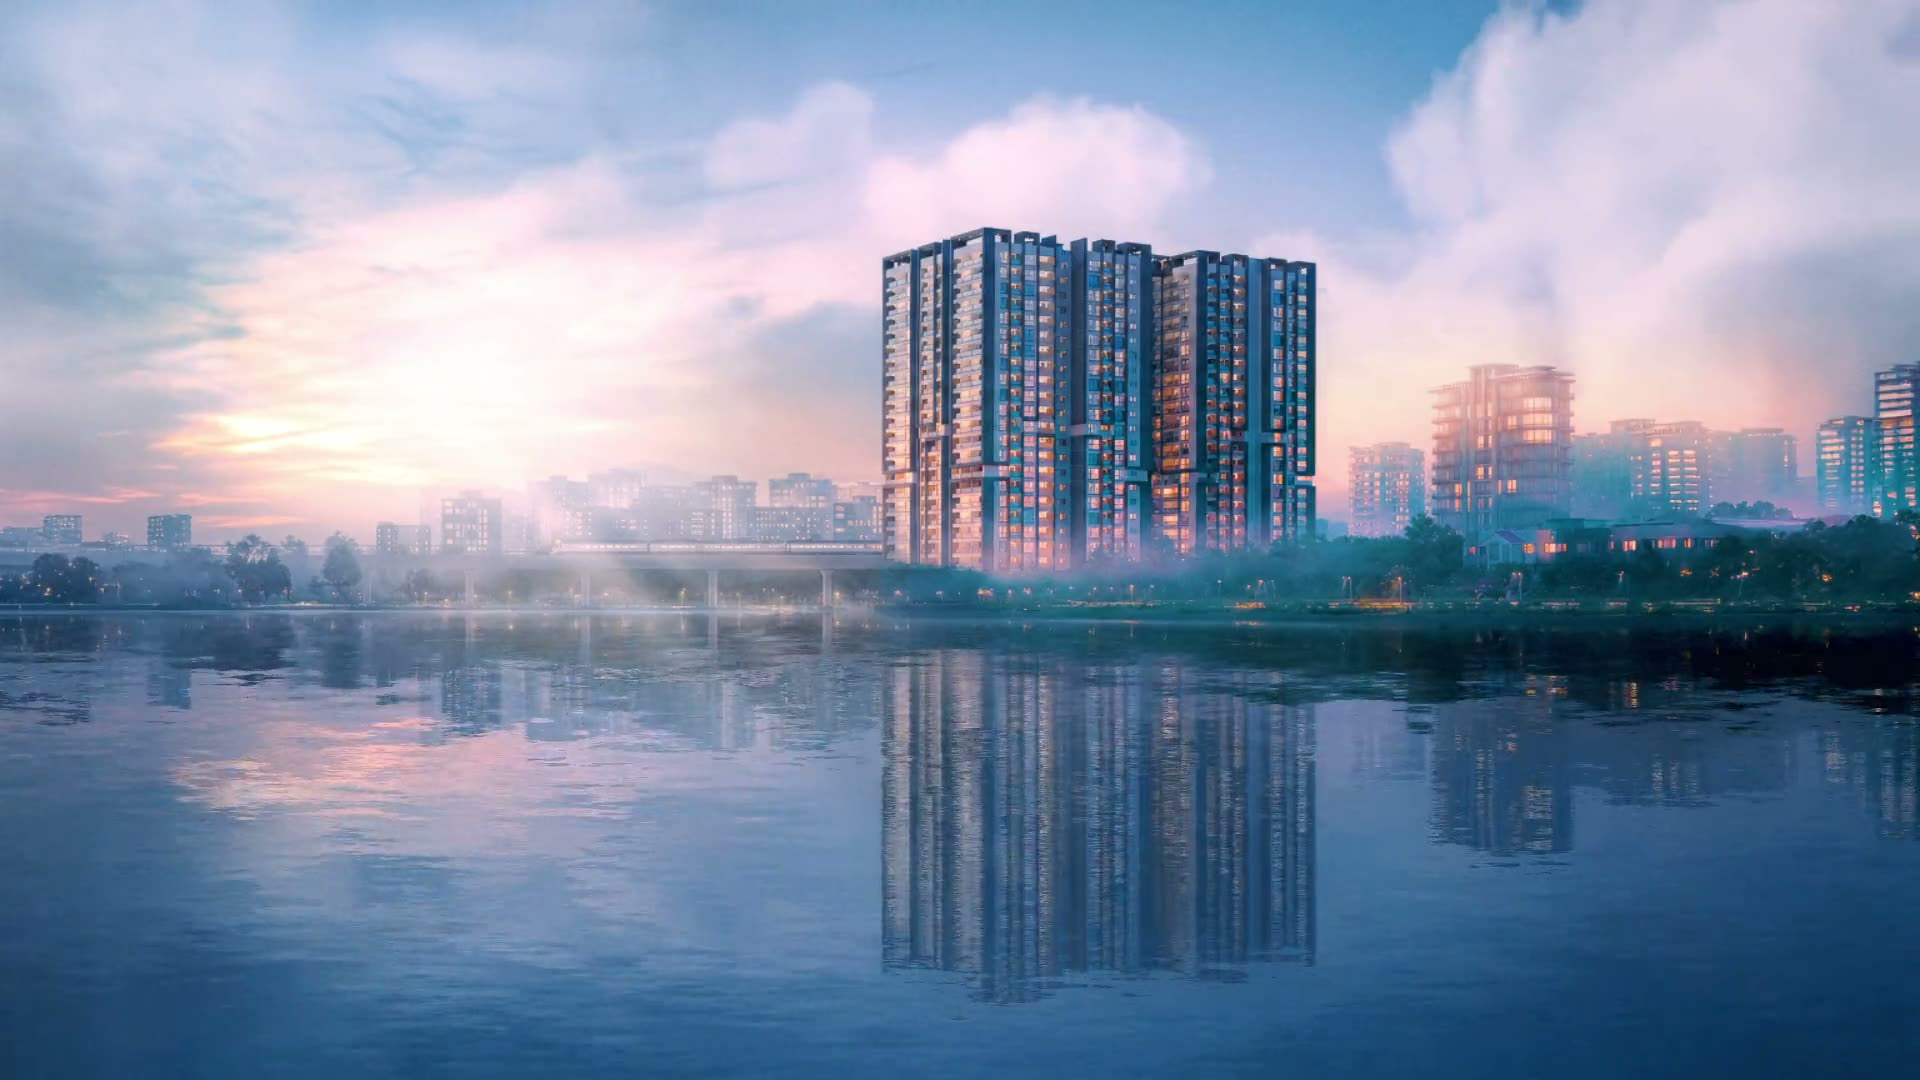
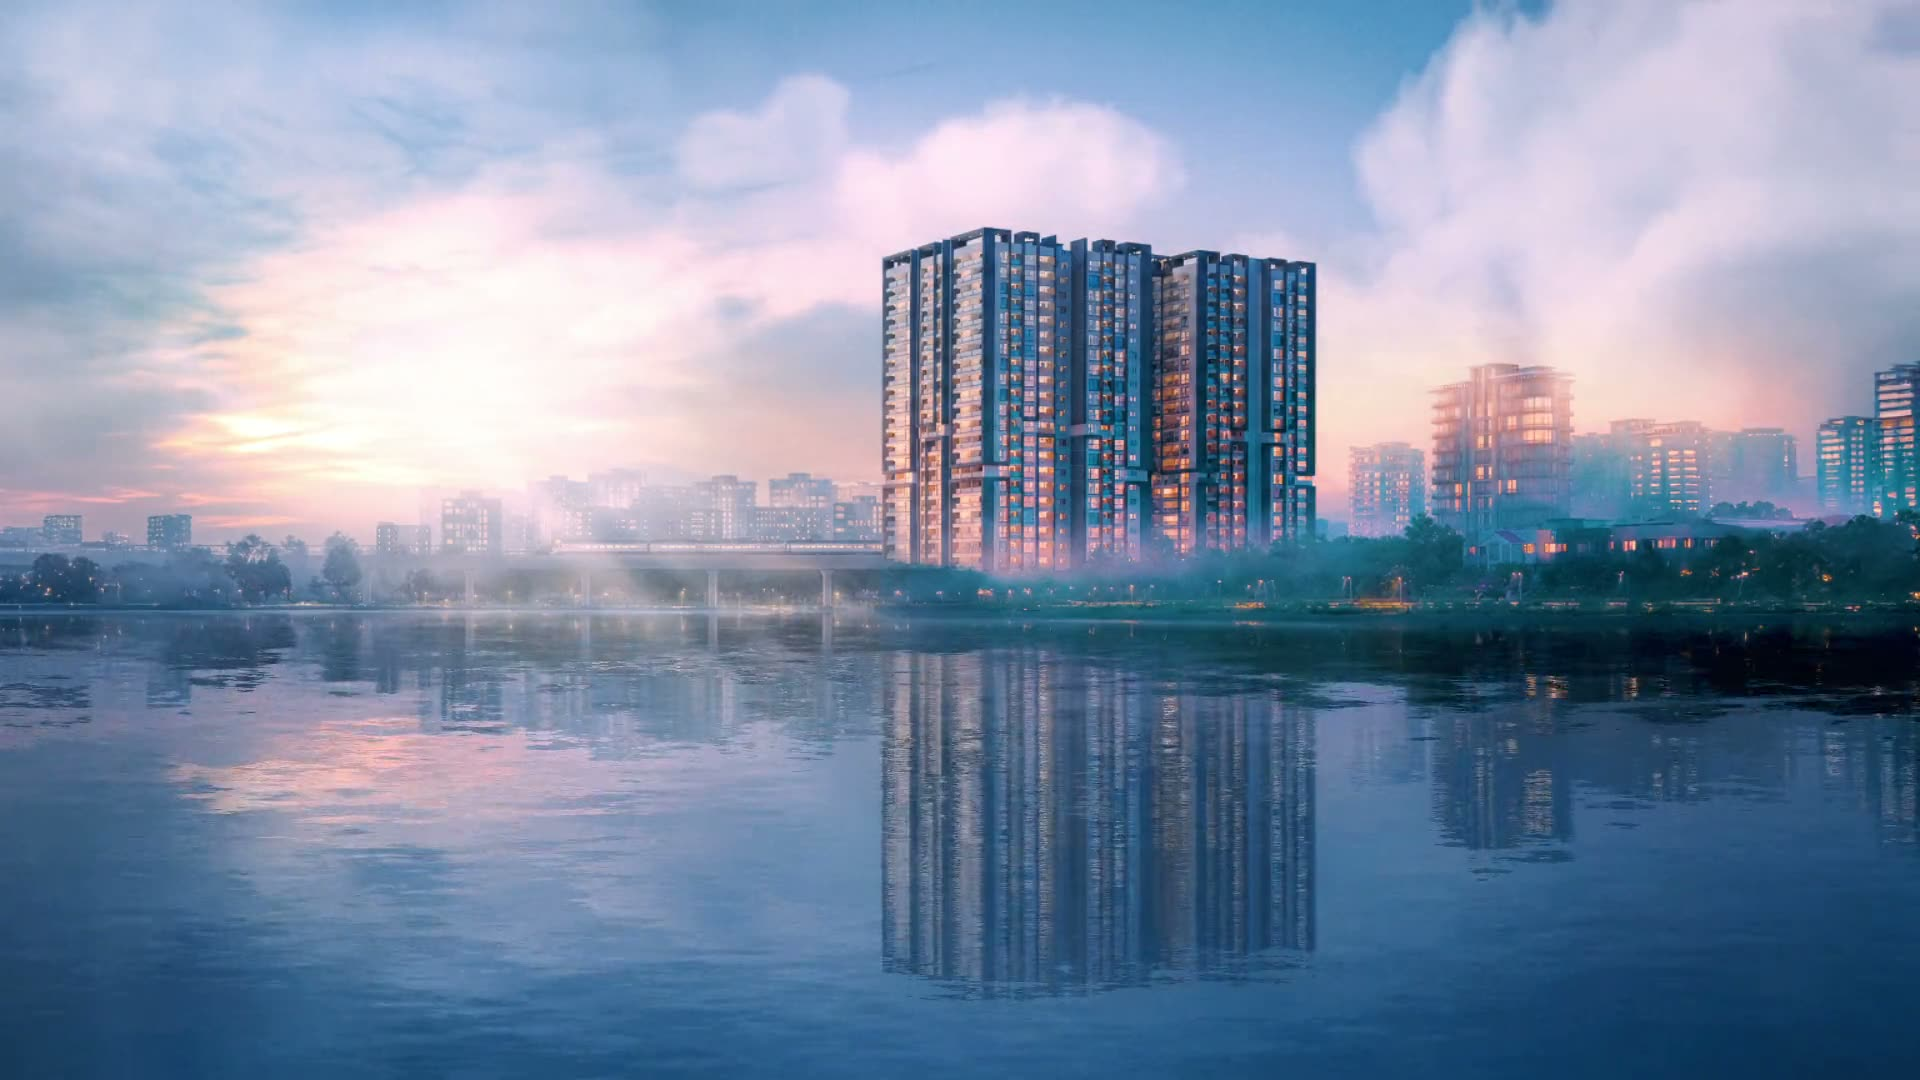
Home: master-plan image-above-legend + interactive pins; Why-Taranga caption above film; hero revert
- Master plan: image on top, numbered legend below; click/hover a legend item
  (or a pin) highlights the exact spot with a pulsing ring. Pins aligned to the
  printed 01–17 badges on masterplan_plan.jpg (coords in MP_PINS).
- Master plan on mobile: hide the numbered key, show a tap-to-zoom hint.
- Why-Taranga: move the walkthrough caption above the video.
- Portfolio teaser: use the Taranga entrance render.
- Revert hero posters and per-device videos to the previous version.

diff --git a/app/HomeClient.jsx b/app/HomeClient.jsx
@@ -16,6 +16,16 @@ const MP_LEGEND = [
   [17, 'Ventilation Duct'],
 ];
 
+// Pin positions as % of the master-plan image, aligned to the printed 01–17
+// badges on masterplan_plan.jpg (2460×1125). Clicking/hovering a legend item
+// pulses the matching pin. Nudge a value here if a ring sits slightly off.
+const MP_PINS = {
+  1: [17.5, 18.6], 2: [22.6, 8.5], 3: [38.8, 22.4], 4: [24.9, 42.6], 5: [39.2, 50.6],
+  6: [69.4, 47.5], 7: [55.5, 48.6], 8: [56.4, 17.8], 9: [54.0, 87.2], 10: [44.8, 8.5],
+  11: [89.8, 49.0], 12: [92.9, 79.0], 13: [44.4, 94.2], 14: [13.1, 69.4], 15: [15.1, 41.7],
+  16: [88.6, 23.8], 17: [67.4, 10.8],
+};
+
 export default function HomeClient() {
   /* hero video: poster is the eager LCP; the video only mounts on capable,
      non-data-saving desktop sessions so mobile/metered users never download it. */
@@ -72,6 +82,9 @@ export default function HomeClient() {
     tablet: { mp4: '/assets/video/hero-square.mp4', poster: '/assets/img/hero-square-poster.jpg' },
     desktop: { mp4: '/assets/video/hero-desktop.mp4', poster: '/assets/img/hero-desktop-poster.jpg' },
   };
+
+  /* master-plan: which numbered point is highlighted (from legend or pin) */
+  const [mpHot, setMpHot] = useState(null);
 
   /* quick visit form */
   const [q, setQ] = useState({ n: '', p: '', c: '' });
@@ -509,17 +522,41 @@ export default function HomeClient() {
       </div>
       <section className="wrap" data-sec data-n="04" data-l="The Plan" data-rail="The Plan" style={{ paddingTop: 'clamp(3.5rem,8vw,6rem)', paddingBottom: 'clamp(2rem,4vw,3rem)' }}><div className="reveal"><div className="label">Master Plan</div>
         <h2 style={{ fontFamily: 'var(--display)', fontWeight: 300, fontSize: 'clamp(2rem,4.4vw,3.2rem)', lineHeight: 1.05, margin: '.3rem 0 .2rem' }}>The whole of Taranga,<br />at a glance</h2>
-        <div className="mplan2 mplan2--split">
+        <div className="mplan2 mplan2--stack">
           <div className="mplan2-figure">
             <div className="mplan2-map" onClick={() => window.zoom && window.zoom('/assets/img/masterplan.jpg', 'Makuta Taranga — Master Plan')}>
               <img src="/assets/img/masterplan_plan.jpg" width="2460" height="1125" loading="lazy" decoding="async" alt="Makuta Taranga master plan — Residential Blocks A & B, clubhouse, courts, temple, jogging track" />
+              {MP_LEGEND.map(([n]) => {
+                const p = MP_PINS[n];
+                if (!p) return null;
+                return (
+                  <span
+                    key={n}
+                    className={'mp-pin' + (mpHot === n ? ' on' : '')}
+                    data-n={n}
+                    style={{ left: p[0] + '%', top: p[1] + '%' }}
+                    aria-hidden="true"
+                    onMouseEnter={() => setMpHot(n)}
+                    onMouseLeave={() => setMpHot((h) => (h === n ? null : h))}
+                    onClick={(e) => { e.stopPropagation(); setMpHot(n); }}
+                  ></span>
+                );
+              })}
             </div>
-            <div className="mp-cap"><span>Tap the plan to enlarge</span><span>Artist&rsquo;s impression &middot; not to scale &middot; N&uarr;</span></div>
+            <div className="mp-cap"><span>Hover a point or list item &middot; tap plan to enlarge</span><span>Artist&rsquo;s impression &middot; not to scale &middot; N&uarr;</span></div>
           </div>
           <div className="mplan2-side">
             <ol className="mplan2-legend">
               {MP_LEGEND.map(([n, label, primary]) => (
-                <li key={n} data-n={n} data-primary={primary ? '1' : undefined}>
+                <li
+                  key={n}
+                  data-n={n}
+                  data-primary={primary ? '1' : undefined}
+                  className={mpHot === n ? 'is-hot' : undefined}
+                  onMouseEnter={() => setMpHot(n)}
+                  onMouseLeave={() => setMpHot((h) => (h === n ? null : h))}
+                  onClick={() => setMpHot(n)}
+                >
                   <span className="ln">{n}</span>{label}
                 </li>
               ))}

diff --git a/app/globals.css b/app/globals.css
@@ -798,10 +798,10 @@ body{overflow-x:clip}
 .mplan2-map{position:relative;border-radius:3px;overflow:hidden;cursor:zoom-in;pointer-events:auto;z-index:5;
   box-shadow:0 30px 70px -44px rgba(14,27,44,.6),0 8px 24px -18px rgba(14,27,44,.4)}
 .mplan2-map>img{display:block;width:100%;height:auto}
-.mp-pin{position:absolute;transform:translate(-50%,-50%);width:clamp(18px,2.1vw,26px);height:clamp(18px,2.1vw,26px);
-  border-radius:50%;border:1.5px solid rgba(193,154,99,.55);background:transparent;cursor:pointer;
-  box-sizing:border-box;transition:border-color .3s var(--ease),background .3s var(--ease),transform .3s var(--ease)}
-.mp-pin:hover,.mp-pin.on{border-color:var(--line);background:rgba(193,154,99,.22);transform:translate(-50%,-50%) scale(1.18);
+.mp-pin{position:absolute;transform:translate(-50%,-50%);width:clamp(20px,2.3vw,30px);height:clamp(20px,2.3vw,30px);
+  border-radius:50%;border:2px solid rgba(193,154,99,.55);background:transparent;cursor:pointer;opacity:0;
+  box-sizing:border-box;transition:opacity .3s var(--ease),border-color .3s var(--ease),background .3s var(--ease),transform .3s var(--ease)}
+.mp-pin:hover,.mp-pin.on{opacity:1;border-color:var(--line);background:rgba(193,154,99,.22);transform:translate(-50%,-50%) scale(1.18);
   animation:mp-pulse 1.6s var(--ease) infinite}
 @keyframes mp-pulse{0%{box-shadow:0 0 0 0 rgba(193,154,99,.5)}100%{box-shadow:0 0 0 13px rgba(193,154,99,0)}}
 .mplan2-legend{list-style:none;margin:0;padding:0}
@@ -809,7 +809,11 @@ body{overflow-x:clip}
   font-family:var(--body);font-size:.85rem;color:var(--ink-soft)}
 .mplan2-legend li:last-child{border-bottom:0}
 .mplan2-legend .ln{flex:0 0 auto;width:25px;height:25px;border-radius:50%;border:1px solid var(--line);
-  display:grid;place-items:center;font-size:.66rem;color:var(--gold-deep)}
+  display:grid;place-items:center;font-size:.66rem;color:var(--gold-deep);
+  transition:background .25s var(--ease),color .25s var(--ease),border-color .25s var(--ease)}
+.mplan2-legend li{cursor:pointer}
+.mplan2-legend li:hover,.mplan2-legend li.is-hot{color:var(--ink)}
+.mplan2-legend li:hover .ln,.mplan2-legend li.is-hot .ln{background:var(--line);border-color:var(--line);color:#fff}
 .mp-cap{display:flex;justify-content:space-between;gap:1rem;flex-wrap:wrap;margin-top:.9rem;
   font-size:.62rem;letter-spacing:.16em;text-transform:uppercase;color:var(--muted)}
 .mp-cap span:first-child{color:var(--gold-deep)}
@@ -828,14 +832,13 @@ body{overflow-x:clip}
   .mp-plans-cta .btn{width:100%;justify-content:center}}
 @media(max-width:560px){.mp-cap{font-size:.56rem;letter-spacing:.12em}}
 @media(max-width:400px){.mplan2--stack .mplan2-legend{column-count:1}}
-/* side-by-side variant: image + caption left, legend (2 balanced columns) + CTA right */
-.mplan2--split{grid-template-columns:1.5fr 1.15fr;align-items:center}
-.mplan2--split .mplan2-side{display:flex;flex-direction:column}
-.mplan2--split .mplan2-legend{column-count:2;column-gap:clamp(1.1rem,2vw,1.8rem)}
-.mplan2--split .mplan2-legend li{break-inside:avoid;-webkit-column-break-inside:avoid}
-.mplan2--split .mp-plans-cta{align-items:flex-start;text-align:left;margin-top:clamp(1.4rem,3vw,2rem)}
-@media(max-width:900px){.mplan2--split{grid-template-columns:1fr;align-items:start}.mplan2--split .mp-plans-cta{align-items:center;text-align:center}}
-@media(max-width:520px){.mplan2--split .mplan2-legend{column-count:1}}
+/* mobile: hide the numbered key (too small to read) — the plan is tap-to-zoom */
+@media(max-width:640px){
+  .mplan2--stack .mplan2-legend{display:none}
+  .mplan2--stack .mp-cap{justify-content:center;text-align:center;margin-top:1rem}
+  .mplan2--stack .mp-cap span:nth-child(2){display:none}
+  .mplan2--stack .mp-cap span:first-child{font-weight:600;letter-spacing:.16em;color:var(--gold-deep)}
+}
 
 
 